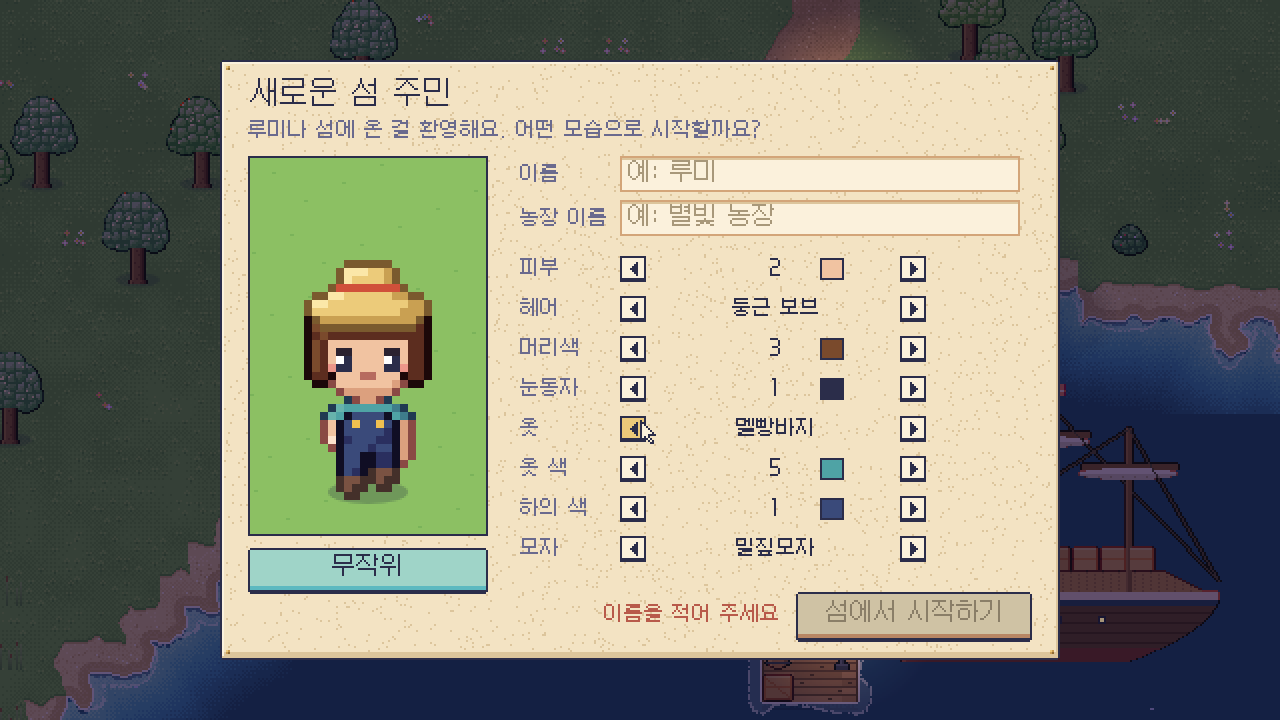
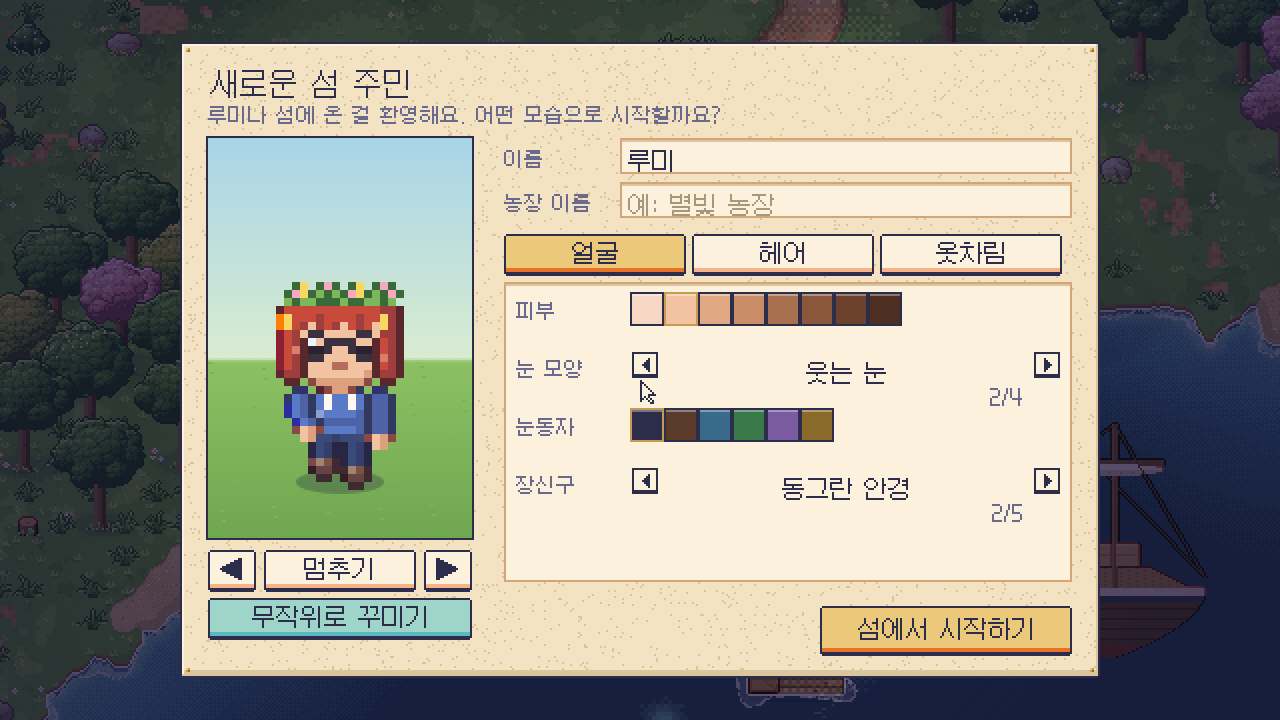
README and screenshots for languages, settings, saves and the new art
Claude-Session: https://claude.ai/code/session_01A6FB6y9Zx9FwsZCHnjFiPn

diff --git a/README.md b/README.md
@@ -2,6 +2,7 @@
 
 > 등대 불빛 아래, 작은 섬에서 작물을 기르고 상자에 담아 배로 실어 보내는 낭만 픽셀 농장 게임
 > LumaRune Studio · 스팀 출시 목표 · 싱글플레이 · Windows / macOS / Linux 데스크톱 앱
+> 한국어 · English (US/UK) · 日本語 · Deutsch · Español
 
 ![타이틀](docs/screenshots/01-title.png)
 
@@ -14,10 +15,14 @@
 | ![](docs/screenshots/12-quarry.png) | ![](docs/screenshots/13-workbench.png) | ![](docs/screenshots/14-winter.png) |
 | **가을 숲** | **섬 지도** | **씨앗 상점** |
 | ![](docs/screenshots/15-autumn.png) | ![](docs/screenshots/11-map.png) | ![](docs/screenshots/04-seed-shop.png) |
-| **해질녘 긴 그림자와 거대 호박** | **밤의 온실** | **밤 부두의 등불 반사** |
+| **해질녘 긴 그림자** | **밤의 온실** | **밤 부두의 등불 반사** |
 | ![](docs/screenshots/16-golden-hour.png) | ![](docs/screenshots/17-greenhouse-night.png) | ![](docs/screenshots/18-harbor-night.png) |
 | **광산: 흙빛 갱도** | **광산: 서리 동굴** | **광산: 불씨 심층** |
 | ![](docs/screenshots/19-mine-earth.png) | ![](docs/screenshots/20-mine-frost.png) | ![](docs/screenshots/21-mine-ember.png) |
+| **가방 (끌어서 정리)** | **일지: 나의 섬** | **일지: 섬 주민** |
+| ![](docs/screenshots/22-bag.png) | ![](docs/screenshots/23-journal.png) | ![](docs/screenshots/24-villagers.png) |
+| **캐릭터 만들기** | **설정: 키 재설정** | **등대 곶** |
+| ![](docs/screenshots/02-creator.png) | ![](docs/screenshots/25-settings.png) | ![](docs/screenshots/07-lighthouse.png) |
 
 ## 핵심 사이클
 
@@ -33,9 +38,12 @@
 - **시세**: 한꺼번에 많이 팔면 값이 내려가고 매일 회복, 제철이 아니면 비쌈.
 - **큰 섬 (240×180 타일)**: 농장, 마을 광장(씨앗방·공방·게시판), 항구, 등대 곶, 강과 다리, 속삭이는 숲,
   **절벽 고원 두 곳**(별빛 언덕·북쪽 숲 능선, 돌계단으로 오르기), **은빛 폭포**, 숲속 야영지, 잊힌 유적,
-  언덕 위 정자, 햇살 과수원, 조수 웅덩이, 노을 해변(파라솔·모래성).
-- **손그림 같은 도트 그래픽**: 잎 뭉치마다 입체 음영을 준 참나무·자작나무·황금잎 나무·벚나무·소나무,
-  얼룩진 잔디·풀포기·클로버, 가장자리가 해진 흙길, 바위 절벽, 부채꼴 포장, 기와 한 장씩 그린 지붕.
+  언덕 위 정자, 햇살 과수원, 조수 웅덩이, 노을 해변(파라솔·모래성). 들판 곳곳의 **큰 바위**와
+  햇빛 방향으로 음영이 진 **완만한 언덕**이 평평한 땅을 깨뜨림.
+- **손그림 같은 도트 그래픽**: 진하고 선명한 잔디 패치와 풀포기 도장, 풀이 넘어와 덮인 주황빛 흙길,
+  잎 뭉치마다 입체 음영을 준 나무, 쪼갠 통나무 울타리, 기와 한 장씩 그린 지붕.
+  건물은 모두 정면만 보지 않음 — **박공면이 앞을 향한 집**, 현관 데크가 있는 **ㄱ자 농가**, 대장간 날개가 붙은 공방.
+  **접지감**: 작물은 흙 둔덕에서 자라 나오고, 바위·나무·울타리·건물 밑동은 풀(겨울엔 눈)에 묻혀 있음.
   모든 나무·바위·소품은 개체마다 모양이 다름. 나무·건물 뒤에 서면 반투명해짐.
 - **살아 있는 섬**: 주민 5명이 시간표대로 생활 (대화·선물·하트 10단계, 잼·과일주·차·꿀 같은 가공품과 보석에도
   주민마다 다르게 반응 — 좋아하는 재료로 만든 걸 알아봄), 매일 바뀌는 게시판 의뢰,
@@ -57,9 +65,17 @@
   (아침엔 길게 왼쪽, 한낮엔 짧게, 해질녘엔 길게 오른쪽, 맑은 밤엔 희미한 달그림자). 골든아워 색보정, 햇빛·달빛에 따라
   달라지는 물 반짝임, 수면에 흔들리는 등불 반사, 2×2 격자에 디더링으로 번지는 도트 조명.
 - **낭만적인 연출**: 가로등·창문 불빛, 회전하는 등대 빛줄기, 구름 그림자, 벚꽃잎·낙엽·반딧불이, 비·폭풍·안개·눈.
-- **항해 일지 UI**: 하늘 다이얼(시간·날씨·기온·출항 카운트다운), 로프 핫바, 씨앗 봉투 카드, 작물 도감 200종, 출하 기록,
-  섬 지도(명소·주민 위치·마우스 설명). 8비트 비트맵 폰트(Galmuri)로 글자가 깨지지 않음.
-- **캐릭터 커스터마이즈**: 16×32 레이어 도트(헤어 6·옷 4·모자 4·피부 8·머리색 10·눈 6·옷/하의 색), 6프레임 걷기.
+- **항해 일지 UI**: 하늘 다이얼(시간·날씨·기온·출항 카운트다운), 로프 핫바, **끌어서 옮기는 가방**(절반 나누기·핫바 지정),
+  일지(나의 섬 현황·섬 주민 호감도와 좋아하는 선물·작물 도감 200종·출하 기록), 확대·이동되는 **섬 지도**(명소·주민 위치).
+  8비트 비트맵 폰트(Galmuri)로 글자가 깨지지 않음.
+- **캐릭터 커스터마이즈**: 16×32 레이어 도트 — 머리 모양 10·머리색 12·눈 모양 4·눈동자 6·피부 8·상의 8·하의 3·신발·모자 7·
+  장신구(안경·주근깨·목도리), 8프레임 걷기. 손에 든 물건은 종류별로 실제로 들고 다님(도구는 손에, 작물은 두 손으로 앞에, 설치물은 머리 위로).
+- **6개 언어**: 한국어·영어(미국/영국)·일본어·독일어·스페인어. 대사·아이템·작물 200종까지 모두 번역.
+- **설정**: 언어, 12/24시간 시계, °C/°F, 대사 속도, 전체 화면, 화면 확대, 정수 배율, 프레임 제한, 음량 4종,
+  **키 재설정**, 번개 번쩍임 끄기, 큰 커서, 항상 달리기.
+- **안전한 저장**: 30초마다 자동 저장 + 메뉴를 열 때·창을 내릴 때·종료할 때 저장. 데스크톱 앱은 운영체제 표준 위치에 파일로 저장
+  (Windows `%APPDATA%\LuminaIsle\Saves`, macOS `~/Library/Application Support/LuminaIsle/Saves`,
+  Linux `~/.local/share/LuminaIsle/Saves`) — 임시 파일에 쓰고 디스크에 기록한 뒤 교체하며 이전 저장은 `.bak`으로 보관.
 - **사운드**: 실제 녹음 샘플로 하나씩 제작한 효과음 33개·환경음 6개. **직접 작곡·편곡한 음악 9곡** —
   봄·여름·가을·겨울 낮 테마, 저녁, 밤, 비, 광산, 타이틀. 곡마다 2~3분 반 길이로 인트로·A·B·브리지를 오가며
   기타·하프·피아노·플루트·오보에·틴 휘슬·첼로·현악·마림바·칼림바 등 실제 악기 샘플이 차례로 들어오고 빠짐.
@@ -73,9 +89,10 @@ npm run app:dist     # 설치 파일 만들기 → packages/desktop/release (Win
 npm run dev          # 브라우저 개발 모드 http://localhost:5173
 ```
 
-- 이동 `WASD` · 달리기 `Shift` · 도구 사용 `좌클릭/Space`(누르고 있으면 연속) · 상호작용·대화·수확 `우클릭/E`
-- 선물: 작물·채집물을 들고 주민에게 사용 · 핫바 `1~0`/휠 · 일지 `Tab` · 지도 `M` · 메뉴 `Esc` · 전체화면 `F11`/`Alt+Enter`
-- 광산: 채석장 동굴 입구에서 `E` → 곡괭이로 바위 캐기 → 사다리에서 `E`로 오르내리기
+- 이동 `WASD` · 달리기 `Shift` · 도구 사용 `좌클릭/Space`(누르고 있으면 연속) · 상호작용·대화·수확 `우클릭/F`
+- 가방 `E` · 일지 `Tab` · 지도 `M` · 메뉴 `Esc` · 핫바 `1~0`/휠 · 전체화면 `F11`/`Alt+Enter` (모든 키는 설정에서 바꿀 수 있음)
+- 선물: 작물·채집물을 들고 주민에게 사용 · 잠은 19시 이후 침대에서
+- 광산: 채석장 동굴 입구에서 `F` → 곡괭이로 바위 캐기 → 사다리에서 `F`로 오르내리기
 - 개발 모드 전용 키: `F1` 날씨 변경, `F2` 1시간 경과, `F3` 작물 다 자라기, `F4` 골드 +5000
 
 ```bash
@@ -87,11 +104,13 @@ npm run audio        # 사운드 에셋 다시 제작 → packages/client/public
 ## 구조 (모듈 · 서버 · 클라이언트)
 
 ```
-packages/core     @lumina/core    순수 규칙·데이터 (작물 200종, 섬 생성, 날씨, 생장, 경제, 프로토콜)
+packages/core     @lumina/core    순수 규칙·데이터 (작물 200종, 섬 생성, 날씨, 생장, 경제, 프로토콜, 번역 표)
 packages/server   @lumina/server  권한 있는 시뮬레이션 (Web Worker / Node WebSocket, 세이브)
 packages/client   @lumina/client  픽셀 렌더러, UI, 입력, 오디오 재생, 씬
 packages/desktop  @lumina/desktop 데스크톱 앱 (Electron, app:// 로 빌드 결과 제공)
 tools/audio                       사운드 제작 도구 (녹음 샘플 → 편집 → OGG)
+tools/i18n                        번역 대상 문구 추출 (테스트가 6개 언어 누락을 검사)
+tools/font                        Galmuri BDF → 비트맵 글꼴 (일본어 한자는 별도 파일로 필요할 때만 로드)
 docs/design                       설계도
 ```
 
